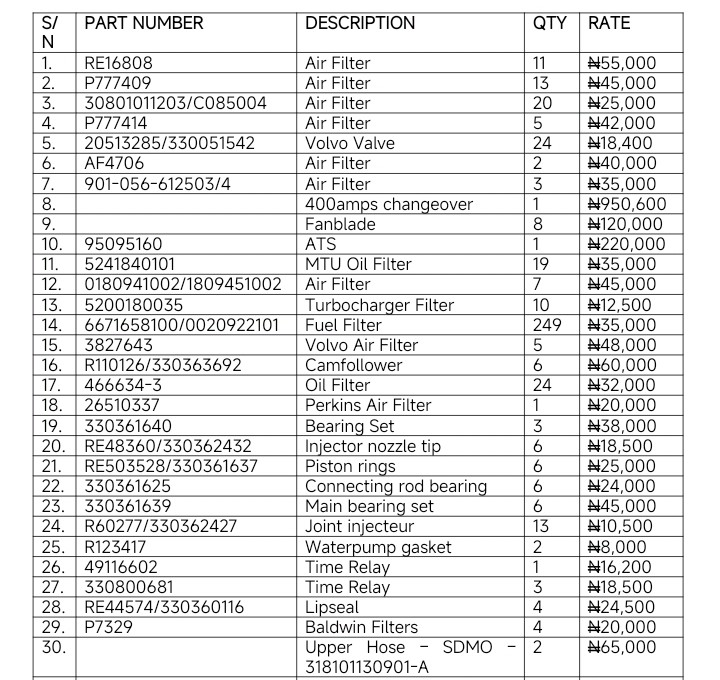
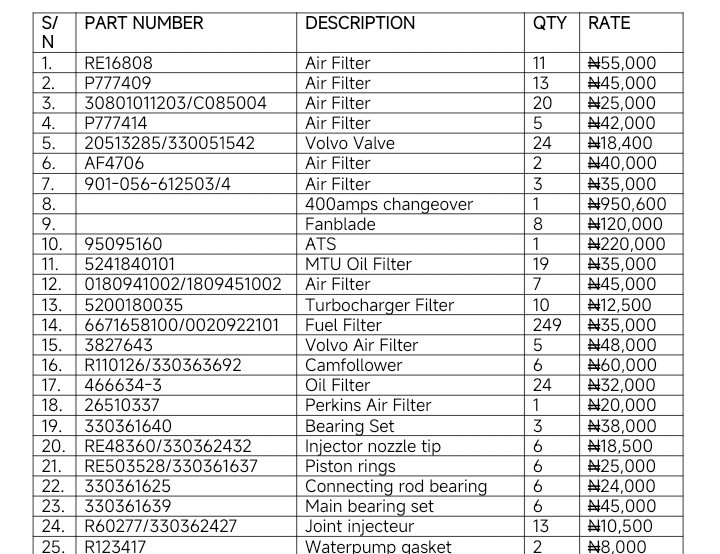
prod

diff --git a/data/products.js b/data/products.js
@@ -126,11 +126,15 @@ window.QF_PRODUCTS = [
   kva: "670 KVA",
   fuel: "Diesel",
   phase: "3-Phase",
-  image: "images/products/FG-670KVA-1.jpeg",
+  image: "images/products/fg-8.jpeg",
           images: [
-      "images/products/FG-670KVA-1.jpeg",
+      "images/products/fg-8.jpeg",
+      "images/products/fg-7.jpeg",
       "images/products/FG-670KVA-2.jpeg",
-      "images/products/FG-670KVA-3.jpeg"
+      "images/products/FG-670KVA-3.jpeg",
+      "images/products/fg-6.jpeg",
+      "images/products/fg-5.jpeg",
+      "images/products/fg-1.jpeg"
     ],
   shortDescription: "FG Wilson 2800 Series industrial generator in excellent working condition.",
   featured: true,
@@ -331,8 +335,9 @@ window.QF_PRODUCTS = [
     name: "Spare Parts Catalogue",
     category: "spare-parts",
     price: null,
-    image: "images/products/spare-parts-1.jpg",
+    image: "images/products/spare-parts-4.jpg",
     images: [
+      "images/products/spare-parts-4.jpg",
       "images/products/spare-parts-1.jpg",
       "images/products/spare-parts-2.jpg"
     ],

diff --git a/assets/js/pages/product.js b/assets/js/pages/product.js
@@ -370,7 +370,7 @@ document
       View Spare Parts Catalogue
     </a>
 
-    <a class="btn btn-secondary btn-lg" href="doc/SPARE PARTS.pdf" target="_blank">
+    <a class="btn btn-outline btn-lg" href="doc/SPARE PARTS.pdf" target="_blank">
     View Price List (PDF)
   </a>
 
